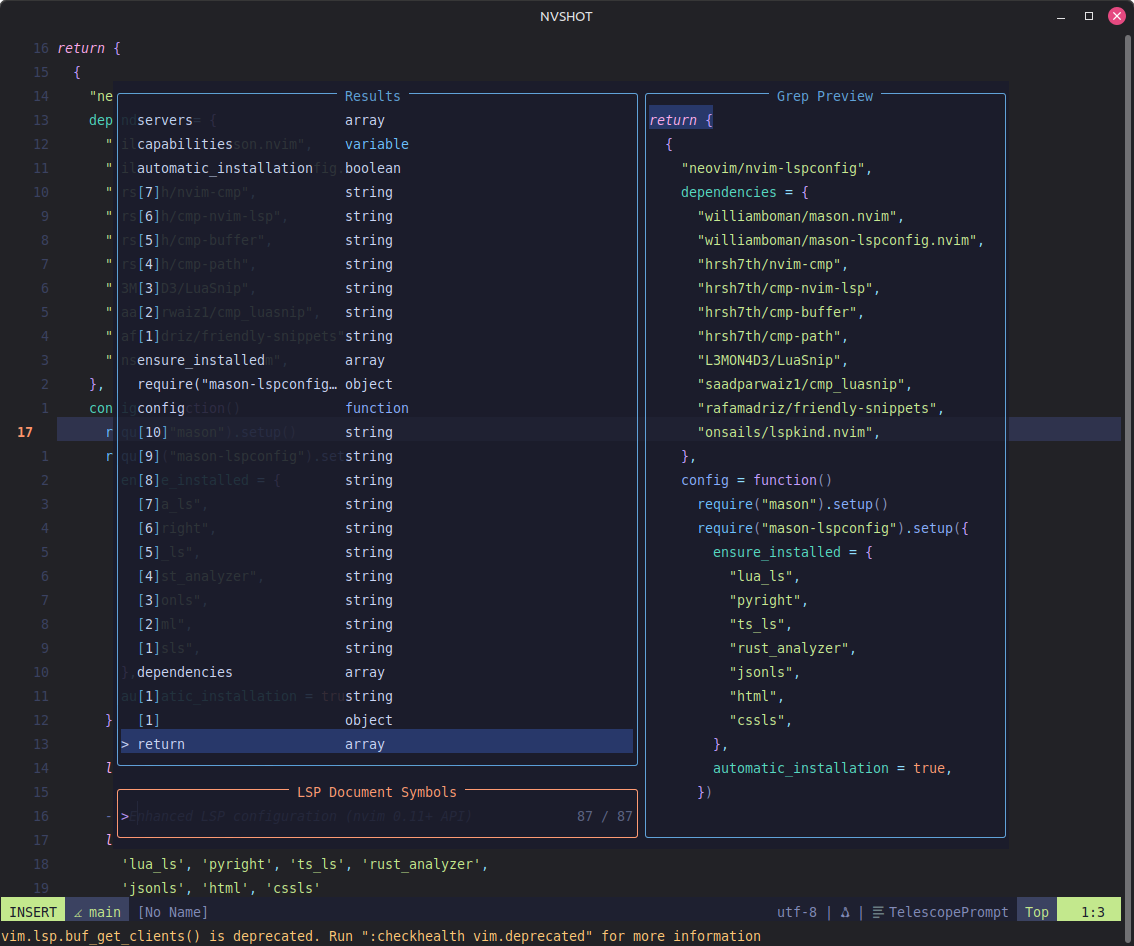
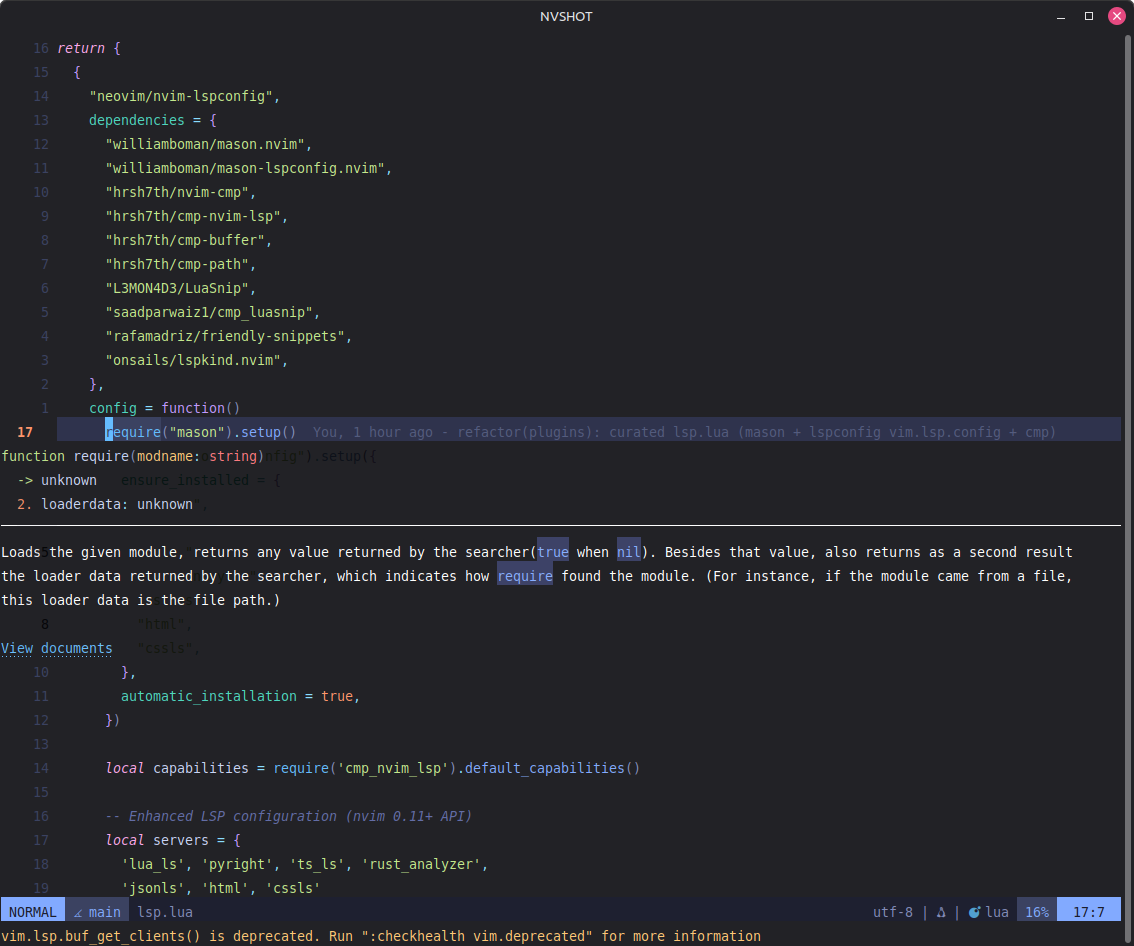
fix(treesitter): switch to main branch for Neovim 0.12 compatibility
The master branch crashes on markdown code-fence injections under nvim
0.12 (iter_matches returns a list of nodes per capture, which master's
query predicates mishandle -> 'attempt to call method range (a nil
value)' on every LSP hover and markdown buffer). Move nvim-treesitter to
the main branch (the 0.12 rewrite), enable highlighting via a FileType
autocmd + vim.treesitter.start, and recompile parsers with the
tree-sitter CLI. Document the new tree-sitter CLI dependency. Refresh
lsp.png with the now-clean hover.

diff --git a/README.md b/README.md
@@ -49,6 +49,7 @@ A hand-rolled Neovim config — IDE features, fast startup, VSCode-like feel —
 | ripgrep | any | `rg` — Telescope grep |
 | fd | any | `fd` — Telescope find |
 | C compiler | any | `gcc`/`clang` — Treesitter |
+| tree-sitter CLI | any | `tree-sitter` — compiles Treesitter parsers (`:TSUpdate`). `cargo install tree-sitter-cli` / `npm i -g tree-sitter-cli` / release binary |
 | Nerd Font | any | [nerdfonts.com](https://www.nerdfonts.com/) |
 | Claude Code CLI | any | optional — for in-editor Claude (`claude` on PATH) |
 